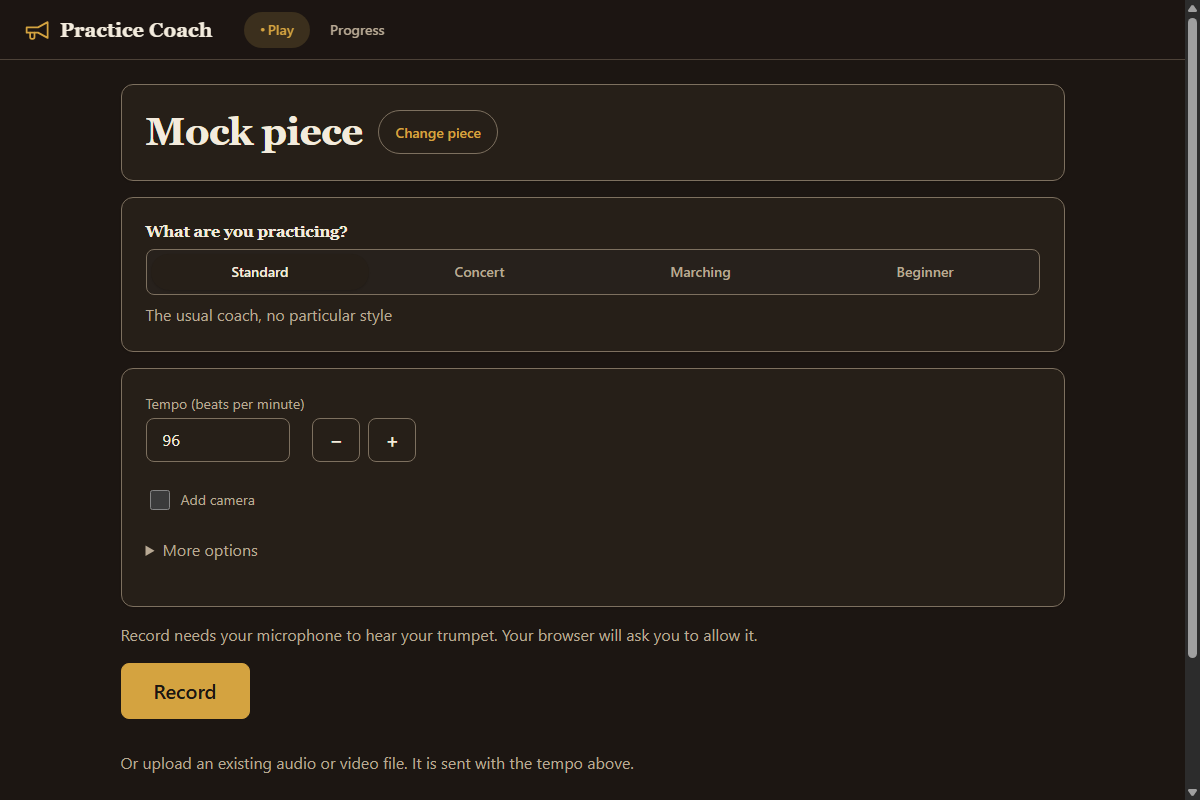
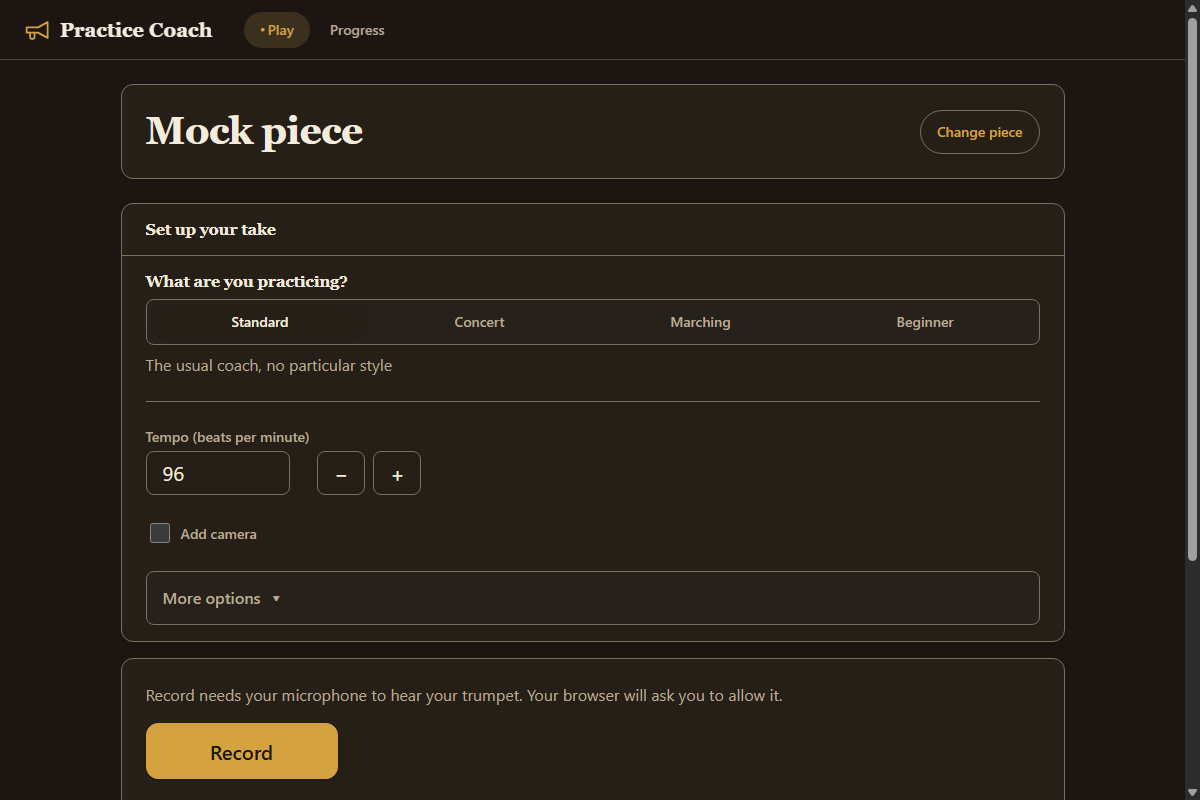
Restyle the Play screen on the design system (cards, btn, header); add Play screenshots

diff --git a/frontend/css/take.css b/frontend/css/take.css
@@ -1,33 +1,50 @@
-/* Take setup screen. Loaded by js/screens/take.js. */
-.take-form { display: grid; gap: var(--sp-3); }
-.field-row { display: flex; flex-wrap: wrap; gap: var(--sp-3); }
-.field { display: grid; gap: var(--sp-1); }
-.field input[type="number"] { width: 9rem; }
-.choice { display: inline-flex; align-items: center; gap: var(--sp-2); min-height: var(--tap); }
-.take-form fieldset { display: flex; flex-wrap: wrap; gap: 0 var(--sp-4); margin: 0; padding: var(--sp-2) var(--sp-3); border: 1px solid var(--line); border-radius: var(--radius-card); }
-.take-form legend { padding: 0 var(--sp-2); color: var(--muted); font-size: var(--fs-xs); font-weight: 600; letter-spacing: 0.06em; text-transform: uppercase; }
-.take-form p { margin: 0; }
-.take-actions { display: flex; flex-wrap: wrap; gap: var(--sp-2); padding-bottom: max(var(--sp-3), env(safe-area-inset-bottom)); }
-.record-big { min-height: 56px; padding: 0 var(--sp-5); font-size: var(--fs-lg); }
-@media (max-width: 40rem) {
-  .record-big { width: 100%; }
-  .take-actions { position: sticky; bottom: 0; z-index: 5; padding-top: var(--sp-2); background: var(--bg); border-top: 1px solid var(--line); } /* Record stays in the thumb zone */
-}
-.tempo-stepper { display: flex; align-items: flex-end; gap: var(--sp-2); }
-.stepper { min-width: var(--tap); min-height: var(--tap); font-size: var(--fs-lg); }
-.take-more summary { min-height: var(--tap); cursor: pointer; color: var(--muted); }
-.take-more[open] { display: grid; gap: var(--sp-3); }
-.take-meter meter { width: 12rem; }
+/* Play screen (#/take). Loaded by js/screens/take.js, after components.css (cards, .btn, .chip, .badge) and app.css tokens. */
 
-.camera-panel { max-width: 40rem; }
-.camera-stage { position: relative; aspect-ratio: 16 / 9; margin-bottom: var(--sp-3); background: var(--media-bg); border-radius: var(--radius-card); overflow: hidden; }
+/* ---------- Setup card ---------- */
+.take-card-body { display: grid; gap: var(--sp-4); }
+.take-form { display: grid; gap: var(--sp-3); }
+.take-form p { margin: 0; }
+.field-row { display: flex; flex-wrap: wrap; gap: var(--sp-3); }
+.field { display: grid; gap: var(--sp-1); font-size: var(--fs-sm); font-weight: 600; }
+.field input[type="number"] { width: 9rem; font-weight: 400; }
+.choice { display: inline-flex; align-items: center; gap: var(--sp-2); min-height: var(--tap); font-weight: 600; }
+.tempo-stepper { display: flex; flex-wrap: wrap; align-items: flex-end; gap: var(--sp-2); }
+.tempo-stepper input[type="number"] { font-size: var(--fs-lg); }
+.stepper { min-width: var(--tap); font-size: var(--fs-lg); }
+.persona-slot:not(:empty) { padding-bottom: var(--sp-4); border-bottom: 1px solid var(--line); }
+.take-more { padding: var(--sp-1) var(--sp-3); background: var(--surface-2); border: 1px solid var(--line); border-radius: var(--radius); }
+.take-more summary { min-height: var(--tap); display: flex; align-items: center; cursor: pointer; color: var(--muted); font-weight: 600; }
+.take-more summary::after { content: "\25BE"; margin-left: var(--sp-2); transition: transform var(--dur-fast) var(--ease); }
+.take-more[open] summary::after { transform: rotate(180deg); }
+.take-more[open] { display: grid; gap: var(--sp-2); padding-bottom: var(--sp-3); }
+.take-more .choice + p { padding-left: calc(20px + var(--sp-2) + 0.3em); font-size: var(--fs-sm); }
+
+/* ---------- Camera preview: a card of its own once the camera is on ---------- */
+.camera-panel { display: grid; gap: var(--sp-2); max-width: 40rem; padding: var(--sp-3); background: var(--surface); border: 1px solid var(--line); border-radius: var(--radius-card); box-shadow: var(--shadow-1); }
+.camera-panel > * { margin: 0; }
+.camera-stage { position: relative; aspect-ratio: 16 / 9; background: var(--media-bg); border-radius: var(--radius); overflow: hidden; }
 .camera-stage video { width: 100%; height: 100%; object-fit: cover; }
 .camera-guide-host { position: absolute; inset: 0; pointer-events: none; }
 .camera-guide { position: absolute; inset: 0; width: 100%; height: 100%; fill: none; stroke: var(--on-media); stroke-width: 0.8; stroke-linecap: round; stroke-linejoin: round; pointer-events: none; }
 .camera-guide .guide-instrument { stroke: var(--on-media-accent); stroke-dasharray: 2 1.5; }
-.camera-badge { display: inline-block; margin: var(--sp-2) 0 0; padding: 2px var(--sp-3); border-radius: var(--radius); font-weight: 600; }
-.camera-badge[hidden] { display: none; }
+.camera-field { grid-auto-flow: column; justify-content: start; align-items: center; gap: var(--sp-2); }
+.camera-badge { justify-self: start; padding: 2px var(--sp-3); border-radius: var(--radius-pill); font-size: var(--fs-sm); font-weight: 600; }
 .camera-ok { background: var(--ok-soft); color: var(--ok); }
 .camera-warn { background: var(--sharp-soft); color: var(--sharp); }
-.camera-note { margin: var(--sp-1) 0 0; font-size: var(--fs-sm); }
-.media-error { padding: var(--sp-3) var(--sp-3); background: var(--error-soft); color: var(--error); border-radius: var(--radius); }
+.camera-note { font-size: var(--fs-sm); }
+
+/* ---------- Record area: the big button, what the take is doing ---------- */
+.take-record { display: grid; gap: var(--sp-3); }
+.take-record > * { margin: 0; }
+.take-actions { display: flex; flex-wrap: wrap; gap: var(--sp-2); padding-bottom: max(var(--sp-3), env(safe-area-inset-bottom)); }
+.record-big { min-width: 12rem; min-height: 56px; font-size: var(--fs-lg); }
+.take-meter meter { width: 12rem; }
+.take-meter:empty, .take-problem:empty { display: none; }
+.media-error { padding: var(--sp-3); background: var(--error-soft); color: var(--error); border-left: 4px solid var(--error); border-radius: var(--radius); }
+@media (max-width: 40rem) {
+  .record-big, .take-actions .btn { width: 100%; }
+  .take-actions { position: sticky; bottom: 0; z-index: 5; padding-top: var(--sp-2); background: var(--bg); border-top: 1px solid var(--line); } /* Record stays in the thumb zone */
+}
+
+/* ---------- Upload card ---------- */
+.take-upload .card-body > p { margin: 0; }

diff --git a/frontend/js/screens/take.js b/frontend/js/screens/take.js
@@ -12,6 +12,7 @@ import { button, el, loadScoreStyles } from '../score/ui.js';
 import { createCameraPanel } from '../take/camera_panel.js';
 import { rememberSentTake, sendTakeFile } from '../take/send.js';
 import { initialSetup, kindOfFile, validateSetup } from '../take/setup.js';
+import { playHeader, recordArea, setupCard, uploadCard } from '../take/layout.js';
 import { createTakeForm } from '../take/take_form.js';
 import { UPLOAD_ACCEPT, uploadTypeProblem } from '../take/upload_types.js';
 
@@ -73,10 +74,10 @@ export async function render(root, _params, isCurrent = () => true) {
   const problem = el('div', { className: 'take-problem' });
   const status = el('p', { className: 'muted', attrs: { role: 'status' } });
   const meterBox = el('div', { className: 'take-meter' });
-  const recordButton = button('Record', startRecording, 'primary record-big');
-  const stopButton = button('Stop', stopRecording, 'primary record-big');
-  const sendAgainButton = button('Send this take again', sendUnsent);
-  const discardButton = button('Discard and record again', discardUnsent);
+  const recordButton = button('Record', startRecording, 'btn btn-primary btn-lg record-big');
+  const stopButton = button('Stop', stopRecording, 'btn btn-primary btn-lg record-big');
+  const sendAgainButton = button('Send this take again', sendUnsent, 'btn btn-secondary btn-lg');
+  const discardButton = button('Discard and record again', discardUnsent, 'btn btn-ghost btn-lg');
   const fileInput = el('input', { attrs: { type: 'file', accept: UPLOAD_ACCEPT } });
   fileInput.addEventListener('change', uploadChosenFile);
   const controls = [recordButton, stopButton, sendAgainButton, discardButton, fileInput];
@@ -313,21 +314,21 @@ export async function render(root, _params, isCurrent = () => true) {
   window.addEventListener('hashchange', dispose, { once: true });
 
   root.append(
-    el('div', { className: 'piece-line', children: [
-      el('h1', { text: score.title || 'Play' }),
-      el('a', { text: 'Change piece', className: 'chip', attrs: { href: '#/score' } }),
-    ] }),
-    pickerSlot,
-    form.element,
+    playHeader(score.title || 'Play'),
+    setupCard([pickerSlot, form.element]),
     camera.element,
-    problem,
-    el('p', { className: 'muted', text: MIC_REASON }),
-    el('p', { className: 'take-actions', children: [recordButton, stopButton, sendAgainButton, discardButton] }),
-    meterBox,
-    status,
-    el('p', { className: 'muted', text: 'Or upload an existing audio or video file. It is sent with the tempo above.' }),
-    fileInput,
-    el('p', { children: [el('a', { text: 'Fine-tune for your room and microphone (optional)', attrs: { href: '#/calibrate' } })] }),
+    recordArea({
+      problem,
+      micReason: el('p', { className: 'muted', text: MIC_REASON }),
+      actions: el('p', { className: 'take-actions', children: [recordButton, stopButton, sendAgainButton, discardButton] }),
+      meterBox,
+      status,
+    }),
+    uploadCard([
+      el('p', { className: 'muted', text: 'Or upload an existing audio or video file. It is sent with the tempo above.' }),
+      fileInput,
+      el('p', { children: [el('a', { text: 'Fine-tune for your room and microphone (optional)', attrs: { href: '#/calibrate' } })] }),
+    ]),
   );
   setMode('idle');
   mountPicker();

diff --git a/frontend/js/take/layout.js b/frontend/js/take/layout.js
@@ -1,0 +1,34 @@
+// The look of the Play screen: a page header, a setup card, the record area and an upload card.
+// Only builds elements around the ones take.js already owns; no behaviour lives here.
+import { pageHeader } from '../ui/components.js';
+import { el } from '../score/ui.js';
+
+// card('Set up', [children]) -> <section class="card"> with a header and a body.
+function card(title, children, className = '') {
+  return el('section', { className: `card ${className}`.trim(), children: [
+    el('div', { className: 'card-header', children: [el('h2', { text: title })] }),
+    el('div', { className: 'card-body take-card-body', children }),
+  ] });
+}
+
+// The piece title with the Change piece chip beside it.
+export function playHeader(title) {
+  const header = pageHeader({ title });
+  header.append(el('div', { className: 'page-header-actions', children: [
+    el('a', { text: 'Change piece', className: 'chip', attrs: { href: '#/score' } }),
+  ] }));
+  return header;
+}
+
+export function setupCard(children) {
+  return card('Set up your take', children);
+}
+
+// The Record button row, then what the take is doing (problem, level meter, status).
+export function recordArea({ problem, micReason, actions, meterBox, status }) {
+  return el('section', { className: 'take-record', children: [problem, micReason, actions, meterBox, status] });
+}
+
+export function uploadCard(children) {
+  return card('Other ways to add a take', children, 'take-upload');
+}

diff --git a/frontend/js/take/camera_panel.js b/frontend/js/take/camera_panel.js
@@ -22,7 +22,7 @@ export function createCameraPanel({ instrument, check }) {
     children: VIEWS.map(({ id, label, hint }) => el('option', { text: label, attrs: { value: id, ...(hint ? { title: hint } : {}) } })) });
   viewSelect.value = view;
   const viewNote = el('p', { className: 'muted camera-note', text: SIDE_NOTE });
-  const element = el('div', { className: 'camera-panel', children: [stage, el('label', { text: 'Camera view ', children: [viewSelect] }), viewNote, badge, note] });
+  const element = el('div', { className: 'camera-panel', children: [stage, el('label', { text: 'Camera view ', className: 'field camera-field', children: [viewSelect] }), viewNote, badge, note] });
   element.hidden = true;
 
   function showAnswer(answer) {

diff --git a/frontend/js/take/take_form.js b/frontend/js/take/take_form.js
@@ -39,9 +39,9 @@ export function createTakeForm({ setup, bars, onKindChange, onTempoChange = () =
     tempo.input.valueAsNumber = Math.min(TEMPO_RANGE.max, Math.max(TEMPO_RANGE.min, current + direction * TEMPO_STEP));
     announceTempo();
   }
-  const slower = button('\u2212', () => nudgeTempo(-1), 'stepper');
+  const slower = button('\u2212', () => nudgeTempo(-1), 'btn btn-secondary stepper');
   slower.setAttribute('aria-label', 'Slower');
-  const faster = button('+', () => nudgeTempo(1), 'stepper');
+  const faster = button('+', () => nudgeTempo(1), 'btn btn-secondary stepper');
   faster.setAttribute('aria-label', 'Faster');
   const tempoRow = el('div', { className: 'tempo-stepper', children: [tempo.row, slower, faster] });
 
